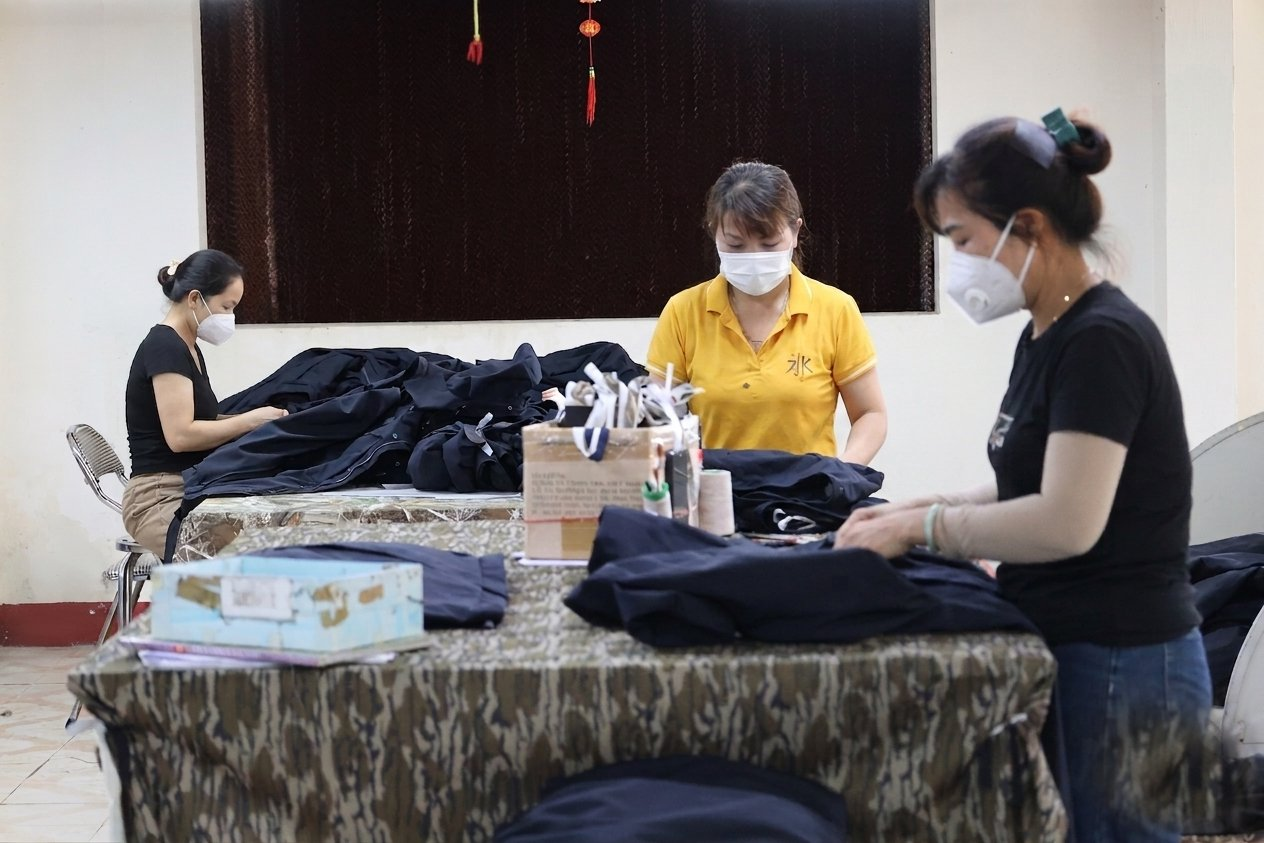
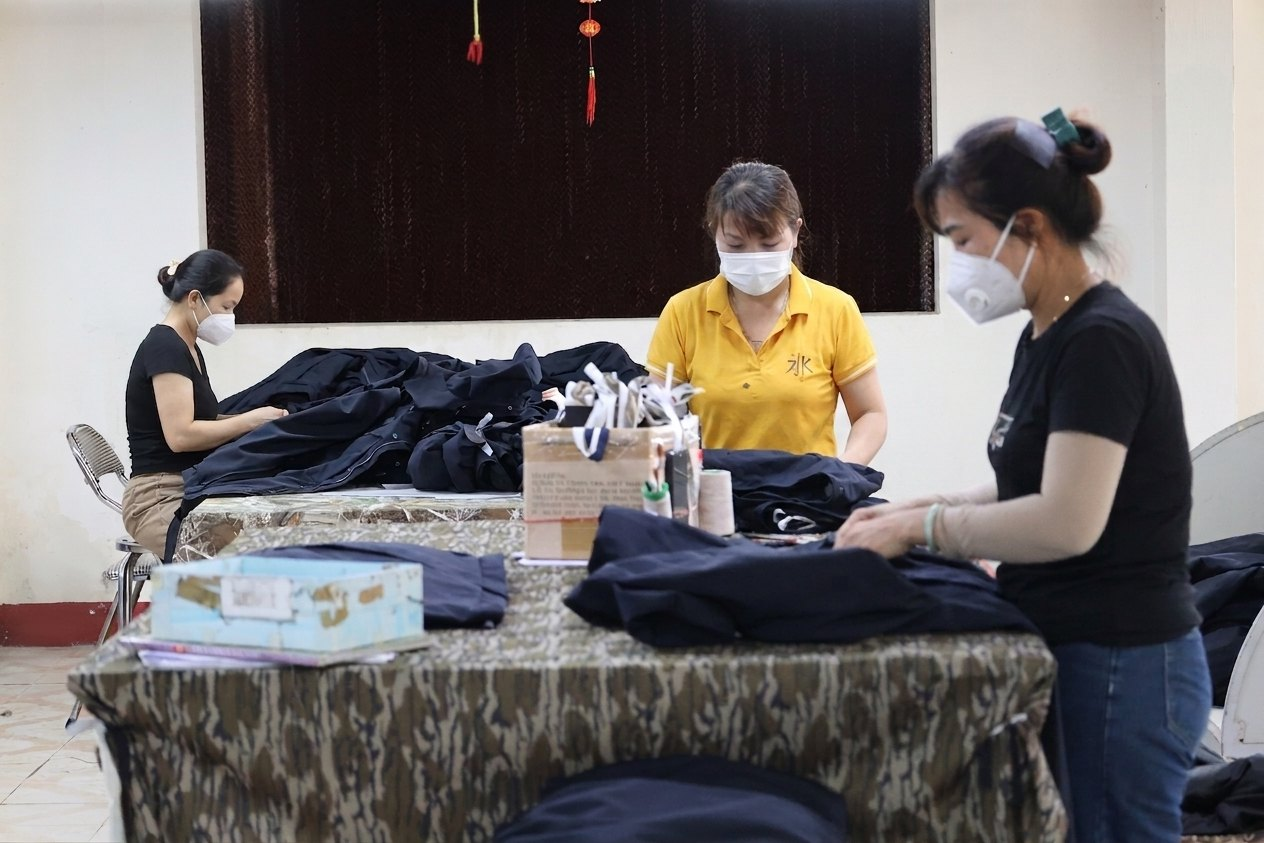
Tạo lại ảnh web từ nguồn đã xoá watermark của người dùng (mịn hơn, bỏ vệt clone): g2/g4/g6/g8 màu (trang chủ), g3b/g4b đen trắng (Hồ sơ), journey-1 (Giới thiệu)

Changed region(s): [[0.8639, 0.8327, 1.0, 0.987]]

diff --git a/public/index.html b/public/index.html
@@ -229,13 +229,13 @@
         </div>
         <div class="cert-gallery gallery-mosaic" data-reveal>
           <figure class="cert-thumb"><img src="assets/img/gallery/g1.jpg?v=7" alt="Xưởng may quy mô" loading="lazy"><figcaption data-en="Sewing floor">Xưởng may quy mô</figcaption></figure>
-          <figure class="cert-thumb"><img src="assets/img/gallery/g2.jpg?v=7" alt="Dây chuyền may" loading="lazy"><figcaption data-en="Sewing line">Dây chuyền may</figcaption></figure>
+          <figure class="cert-thumb"><img src="assets/img/gallery/g2.jpg?v=8" alt="Dây chuyền may" loading="lazy"><figcaption data-en="Sewing line">Dây chuyền may</figcaption></figure>
           <figure class="cert-thumb"><img src="assets/img/gallery/g3.jpg?v=7" alt="Trải và cắt vải" loading="lazy"><figcaption data-en="Fabric cutting">Trải &amp; cắt vải</figcaption></figure>
-          <figure class="cert-thumb"><img src="assets/img/gallery/g4.jpg?v=7" alt="Công đoạn may" loading="lazy"><figcaption data-en="Sewing">Công đoạn may</figcaption></figure>
+          <figure class="cert-thumb"><img src="assets/img/gallery/g4.jpg?v=8" alt="Công đoạn may" loading="lazy"><figcaption data-en="Sewing">Công đoạn may</figcaption></figure>
           <figure class="cert-thumb"><img src="assets/img/gallery/g5.jpg?v=7" alt="Là ủi hoàn thiện" loading="lazy"><figcaption data-en="Pressing &amp; finishing">Là ủi hoàn thiện</figcaption></figure>
-          <figure class="cert-thumb"><img src="assets/img/gallery/g6.jpg?v=7" alt="Kiểm tra và đóng gói" loading="lazy"><figcaption data-en="Inspection &amp; packing">Kiểm tra &amp; đóng gói</figcaption></figure>
+          <figure class="cert-thumb"><img src="assets/img/gallery/g6.jpg?v=8" alt="Kiểm tra và đóng gói" loading="lazy"><figcaption data-en="Inspection &amp; packing">Kiểm tra &amp; đóng gói</figcaption></figure>
           <figure class="cert-thumb"><img src="assets/img/gallery/g7.jpg?v=7" alt="Hoàn thiện sản phẩm" loading="lazy"><figcaption data-en="Finishing">Hoàn thiện sản phẩm</figcaption></figure>
-          <figure class="cert-thumb"><img src="assets/img/gallery/g8.jpg?v=7" alt="Nhà ăn - bao cơm trưa" loading="lazy"><figcaption data-en="Canteen — free lunch">Nhà ăn – bao cơm trưa</figcaption></figure>
+          <figure class="cert-thumb"><img src="assets/img/gallery/g8.jpg?v=8" alt="Nhà ăn - bao cơm trưa" loading="lazy"><figcaption data-en="Canteen — free lunch">Nhà ăn – bao cơm trưa</figcaption></figure>
         </div>
       </div>
     </section>

diff --git a/public/profile.html b/public/profile.html
@@ -101,9 +101,9 @@
         <div class="cert-gallery cert-gallery--facility" data-reveal>
           <figure class="cert-thumb"><img src="assets/img/gallery/g11.jpg?v=2" alt="Nhà xưởng sản xuất May Đông Thành" loading="lazy"><figcaption data-en="Production floor">Nhà xưởng sản xuất</figcaption></figure>
           <figure class="cert-thumb"><img src="assets/img/gallery/g9.jpg" alt="Nguyên liệu vải tại May Đông Thành" loading="lazy"><figcaption data-en="Fabric material">Nguyên liệu vải</figcaption></figure>
-          <figure class="cert-thumb"><img src="assets/img/gallery/g3b.jpg" alt="Trải và cắt vải tại May Đông Thành" loading="lazy"><figcaption data-en="Cutting">Trải &amp; cắt vải</figcaption></figure>
+          <figure class="cert-thumb"><img src="assets/img/gallery/g3b.jpg?v=2" alt="Trải và cắt vải tại May Đông Thành" loading="lazy"><figcaption data-en="Cutting">Trải &amp; cắt vải</figcaption></figure>
           <figure class="cert-thumb"><img src="assets/img/gallery/g10.jpg" alt="Bó bán thành phẩm tại May Đông Thành" loading="lazy"><figcaption data-en="Bundled cut parts">Bó bán thành phẩm</figcaption></figure>
-          <figure class="cert-thumb"><img src="assets/img/gallery/g4b.jpg" alt="Chuyền may tại May Đông Thành" loading="lazy"><figcaption data-en="Sewing line">Chuyền may</figcaption></figure>
+          <figure class="cert-thumb"><img src="assets/img/gallery/g4b.jpg?v=2" alt="Chuyền may tại May Đông Thành" loading="lazy"><figcaption data-en="Sewing line">Chuyền may</figcaption></figure>
           <figure class="cert-thumb"><img src="assets/img/gallery/g12.jpg" alt="Kiểm tra chất lượng sản phẩm" loading="lazy"><figcaption data-en="Quality inspection">Kiểm tra chất lượng</figcaption></figure>
         </div>
       </div>

diff --git a/public/about.html b/public/about.html
@@ -92,7 +92,7 @@
           </div>
           <div class="split__media--stack" data-reveal data-reveal-delay="1">
             <div class="media-frame">
-              <img src="assets/img/journey-1.jpg?v=3" alt="Dây chuyền may tại May Đông Thành" width="1264" height="711" loading="lazy">
+              <img src="assets/img/journey-1.jpg?v=4" alt="Dây chuyền may tại May Đông Thành" width="1264" height="711" loading="lazy">
               <span class="media-tag" data-en="Sewing line">Dây chuyền may</span>
             </div>
             <div class="media-frame">
